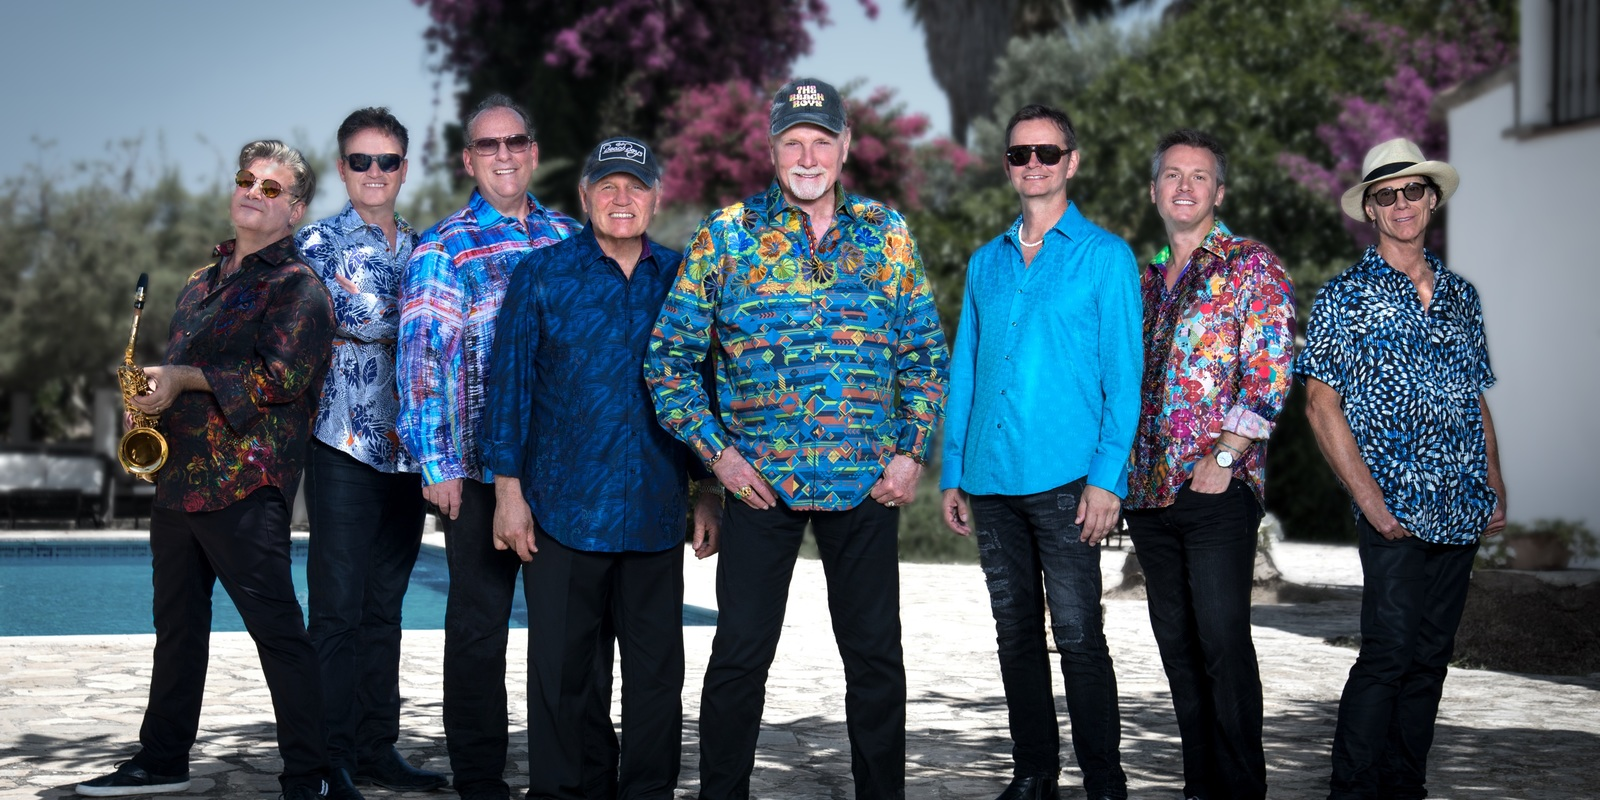
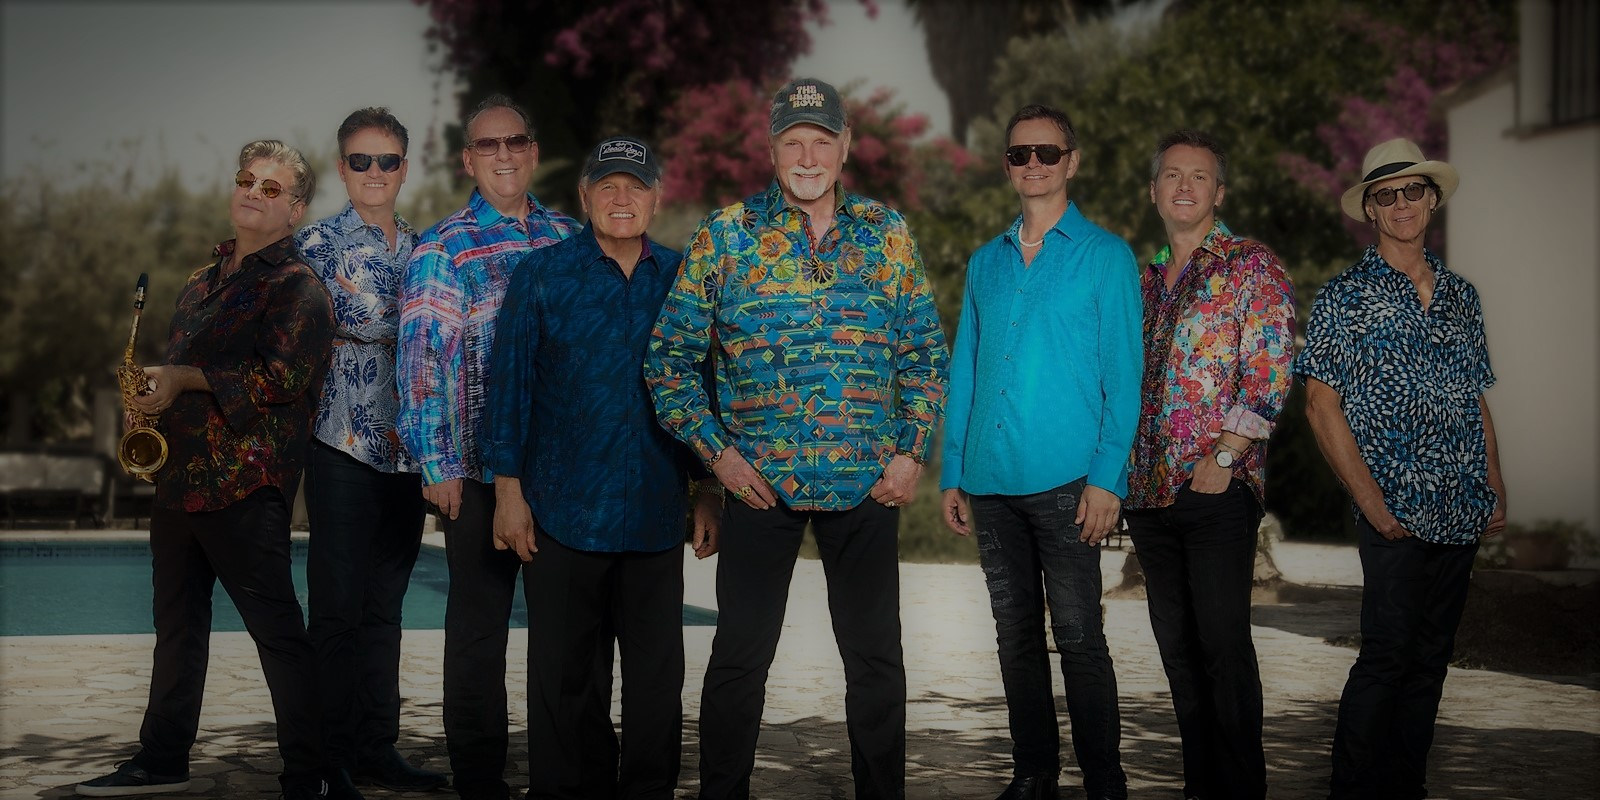
Header/Landing page call to action added with sign up to news modal. CSS styling added and header photo adjusted so that call to action white text stands out.

diff --git a/index.html b/index.html
@@ -50,9 +50,54 @@
   </nav>
 
   <!-- Header -->
-  <header class="bg-white text-white">
+  <header>
     <div class="container text-center">
+
+    <!-- Header Call to Action -->
+      <div class="row" id="call-to-action">
+        <div class="col-xs-12">
+          <section class="text-center">
+            <h1 id="call-to-action-text"><strong>1960's Rock Band with 50 years experience performing live around the world.</h1></strong>
+              <hr class='block-divider block-divider--blue'>
+              <h4 id="signup">Sign up today to start receiving news on The Beach Boys.</h4>
+                <p><button class="btn btn-lg btn-primary" data-toggle='modal' data-target='#signUpModal'>Sign Up!</button></p>
+          </section>
+        </div>
+      </div>
+      </div>
+
+    </section>
+
+    <!-- Modal -->
+    <div class="modal fade" id="signUpModal" tabindex="-1" role="dialog" aria-labelledby="myModalLabel">
+      <div class="modal-dialog" role="document">
+        <div class="modal-content">
+          <div class="modal-header">
+            <button type="button" class="close" data-dismiss="modal" aria-label="Close"><span aria-hidden="true">&times;</span></button>
+            <h5 class="modal-title" id="myModalLabel">Sign Up For The Beach Boys News!</h5>
+          </div>
+          <div class="modal-body">
+            <form>
+              <div class="form-group">
+                <label for="email">Email address</label>
+                <input type="email" class="form-control" id="email" placeholder="Email">
+                <p class="help-block">We'll never share your email address with anyone</p>
+              </div>
+              <div class="form-group">
+                <label for="password">Password</label>
+                <input type="password" class="form-control" id="password" placeholder="Password">
+              </div>
+              <div class="form-group">
+                <label for="passwordRepeat">Repeat Password</label>
+                <input type="password" class="form-control" id="passwordRepeat" placeholder="Repeat Your Password">
+              </div>
+              <button type="submit" class="btn btn-success">Sign Up!</button>
+            </form>
+          </div>
+        </div>
+      </div>
     </div>
+
   </header>
 
   <!-- About -->
@@ -113,12 +158,9 @@
           <h2>Contact Us</h2>
           <br>
           <form>
-            <p>
-              <input type="text" name="name" class="form-control" id="fullname" placeholder="Name" required />
-              <p>
-                <input type="text" name="emailaddress" class="form-control" id="emailaddress" placeholder="Email" required />
-                <p>
-                  <textarea rows="5" name="projectsummary" class="form-control" id="projectsummary" placeholder="For bookings please include - Event Type, Location, Date and Time" required></textarea>
+            <input type="text" name="name" class="form-control" id="fullname" placeholder="Name" required />
+            <input type="text" name="emailaddress" class="form-control" id="emailaddress" placeholder="Email" required />
+            <textarea rows="5" name="projectsummary" class="form-control" id="projectsummary" placeholder="For bookings please include - Event Type, Location, Date and Time" required></textarea>
           </form>
           <br>
           <div class="text-center">
@@ -142,9 +184,7 @@
 
     </div>
 
-    <p></p>
-
-    <div class="container">
+    <div class="container" id="footer">
       <p class="m-0 text-center text-white">Copyright &copy; The Beach Boys 2018</p>
     </div>
   </footer>

diff --git a/css/main.css b/css/main.css
@@ -1,3 +1,5 @@
+/* Header photo styling */
+
 header {
   height: 90vh;
   background: url('../assets/beachBoys.jpg') no-repeat center center fixed;
@@ -5,13 +7,43 @@ header {
   -moz-background-size: cover;
   -o-background-size: cover;
   background-size: cover;
-
   display: flex;
   align-items: center;
   justify-content: center;
-
   position: relative;
 }
+
+
+/* Header call to action syling */
+
+#call-to-action {
+  color:white;
+  margin-left:65px;
+  margin-right:65px;
+}
+
+#call-to-action-text {
+  font-size:60px;
+}
+
+#signup {
+  margin-bottom:25px;
+}
+
+
+/* Block dividers */
+
+.block-divider {
+    width: 75px;
+    height: 5px;
+    border: 0;
+    background-color: #444;
+}
+
+.block-divider--blue {
+    background-color: #0066ff;
+}
+
 
 @media (min-width: 992px) {
   header {
@@ -19,12 +51,28 @@ header {
   }
 }
 
+
 section {
   padding: 150px 0px 150px 0px;
 }
 
+/* Styling for space between form input fields */
 
-/*Social Links Styling */
+#fullname {
+  margin-bottom:15px;
+}
+
+#emailaddress {
+  margin-bottom:15px;
+}
+
+/* Styling for footer spacing between social links and copyright text */
+
+#footer {
+  margin-top:25px;
+}
+
+/* Styling for social links within footer */
 
 .fa {
   padding: 15px;

diff --git a/README.md b/README.md
@@ -30,4 +30,5 @@ thus, lost all staged commits.
 
 Bugs
 
-Boostrap CSS not overrding = Social links CSS, Footer Spacing
+Boostrap CSS not overrding = Social links CSS, Footer Spacing - spent significant time, many hours ove a number of days, trying to fix this via code as it was not rendering in brower via Run. Figured out that the chrome cache needed to be cleared for CSS updates to apply. And used id / # to overwride as a higher class.
+Call to action text not standing out - adjusted photo coloring and uploaded a new photo.
